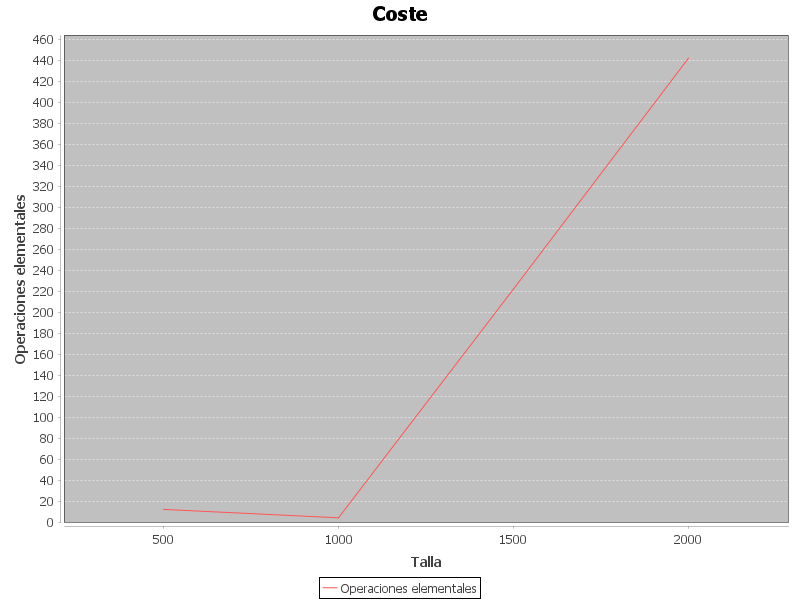
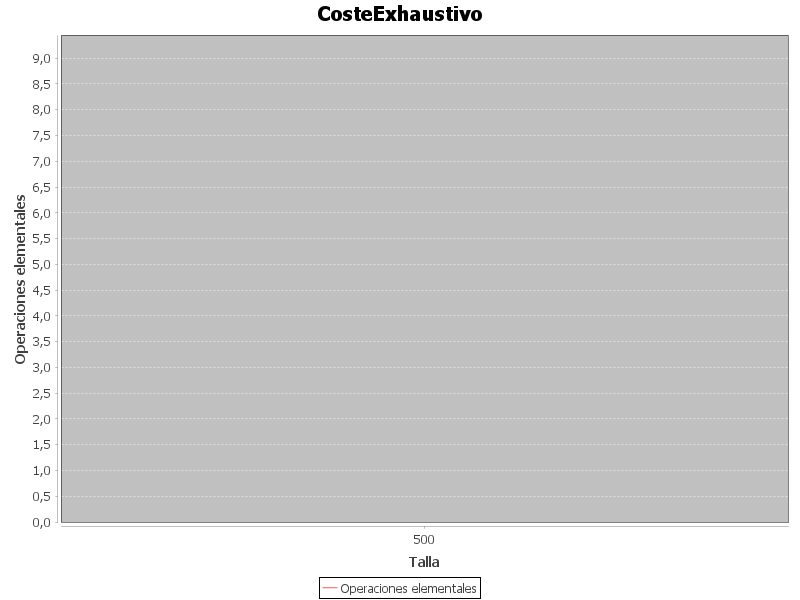
He intentado mejorar para hacer la grafica pero he fallado

diff --git a/src/Clases/Lectura.java b/src/Clases/Lectura.java
@@ -12,13 +12,31 @@ public class Lectura {
     BufferedReader reader;
     BufferedWriter writer;
     ArrayList<Punto> puntos;
+    ArrayList<Integer> ops;
+    ArrayList<Integer> array;
 
     public Lectura(String file) throws FileNotFoundException {
         reader = new BufferedReader(new FileReader(file));
         puntos = new ArrayList<Punto>();
+        ops = new ArrayList<Integer>();
+        array = new ArrayList<Integer>();
 
         try {
             Leer();
+            Cerrar();
+        } catch (IOException e) {
+            System.err.println("Error al leer el archivo: " + e);
+        }
+    }
+
+    public void Lectura2(String file) throws FileNotFoundException {
+        reader = new BufferedReader(new FileReader(file));
+        puntos = new ArrayList<Punto>();
+        ops = new ArrayList<Integer>();
+        array = new ArrayList<Integer>();
+
+        try {
+            Leer2();
             Cerrar();
         } catch (IOException e) {
             System.err.println("Error al leer el archivo: " + e);
@@ -30,6 +48,10 @@ public class Lectura {
 
     public ArrayList<Punto> getPuntos() {
         return puntos;
+    }
+
+    public ArrayList<Integer> getOps() {
+        return ops;
     }
 
     void Leer() throws IOException {
@@ -44,6 +66,50 @@ public class Lectura {
             puntos.add(new Punto((int) Double.parseDouble(data[0]), Double.parseDouble(data[1]), Double.parseDouble(data[2])));
         }
     }
+void Leer2() throws IOException {
+    try {
+        String datos;
+        while ((datos = reader.readLine()) != null) {
+            // Imprimir la línea que se está leyendo para depurar
+            System.out.println("Leyendo línea: " + datos);
+
+            // Saltar la primera línea si es el encabezado
+            if (datos.startsWith("Talla")) {
+                continue;
+            }
+
+            // Comprobar si la línea está vacía
+            if (datos.trim().isEmpty()) {
+                continue; // Pasar a la siguiente línea
+            }
+
+            // Dividir la línea en partes usando el separador "-----"
+            String[] partes = datos.split("-----");
+
+            // Verificar que la línea esté bien formateada (debe tener 3 partes)
+            if (partes.length != 3) {
+                System.err.println("Formato incorrecto en la línea: " + datos);
+                continue; // Saltar esta línea y seguir con la siguiente
+            }
+
+            try {
+                // Leer el valor de Tejecucion (long) y el valor de ops (int)
+                long tiempoEjecucion = Long.parseLong(partes[1].trim());
+                int operaciones = Integer.parseInt(partes[2].trim());
+
+                // Agregar los valores a las listas correspondientes o procesarlos
+                System.out.println("Tiempo de ejecución: " + tiempoEjecucion);
+                ops.add(operaciones);
+
+            } catch (NumberFormatException e) {
+                System.err.println("Error al convertir un número en la línea: " + datos + ". Detalle: " + e.getMessage());
+            }
+        }
+    } catch (IOException e) {
+        System.err.println("Error al leer la línea: " + e.getMessage());
+    }
+}
+
 
     void Cerrar() throws IOException {
         reader.close();
@@ -83,9 +149,9 @@ public class Lectura {
 
         FileWriter escribir = new FileWriter(archivo, sob);
         if (archivo.length() == 0) {
-            escribir.write("Talla          Tiempo ejecucion          Operaciones"+"\n");
+            escribir.write("Talla          Tiempo ejecucion          Operaciones" + "\n");
         }
-        escribir.write(talla + "          " + Tejecucion + "          " + ops + "\n");
+        escribir.write(talla + "-----" + Tejecucion + "-----" + ops + "\n");
 
         escribir.close();
     }
@@ -96,7 +162,4 @@ public class Lectura {
         archivo.delete();
     }
 
-    ArrayList<Integer> leeOps(String string) {
-       
-    }
 }

diff --git a/src/Clases/Graficas.java b/src/Clases/Graficas.java
@@ -22,19 +22,21 @@ import java.util.ArrayList;
 public class Graficas {
     Mostrar mo=new Mostrar();
     ArrayList<Integer> op = new ArrayList<>();
-    public void CrearGrafica(int estrategia) throws FileNotFoundException {
+    public void CrearGrafica(int estrategia) throws FileNotFoundException, IOException {
         Lectura lec = new Lectura();
-        op = lec.leeOps(mo.estrategias.get(estrategia-1) + ".dat");
+        lec.Lectura2(mo.estrategias.get(estrategia-1) + ".dat");
+        lec.Leer2();
+        op=lec.getOps();
+        System.out.println(op.size() + mo.estrategias.get(estrategia-1) + ".dat");
         // Crear un conjunto de datos
         DefaultCategoryDataset dataset = new DefaultCategoryDataset();
-    
-        dataset.addValue(12, "Operaciones elementales", "500");
-        dataset.addValue(4, "Operaciones elementales", "1000");
-        dataset.addValue(222, "Operaciones elementales", "1500");
-        dataset.addValue(442, "Operaciones elementales", "2000");
+        for (int i = 0; i < op.size(); i++) {
+            dataset.addValue(i, "Operaciones elementales", "500");
+        }
+       
         // Crear el gráfico de líneas
         JFreeChart chart = ChartFactory.createLineChart(
-                "Coste", // Título del gráfico
+                "Coste" + mo.estrategias.get(estrategia-1), // Título del gráfico
                 "Talla",  // Etiqueta del eje X
                 "Operaciones elementales", // Etiqueta del eje Y
                 dataset              // Datos

diff --git a/src/Clases/main.java b/src/Clases/main.java
@@ -25,7 +25,7 @@ public class main {
         Lectura lec1 = new Lectura();
         Menus menu = new Menus();
         Graficas g=new Graficas();
-        g.CrearGrafica(0);
+        g.CrearGrafica(1);
 
         do {
 
